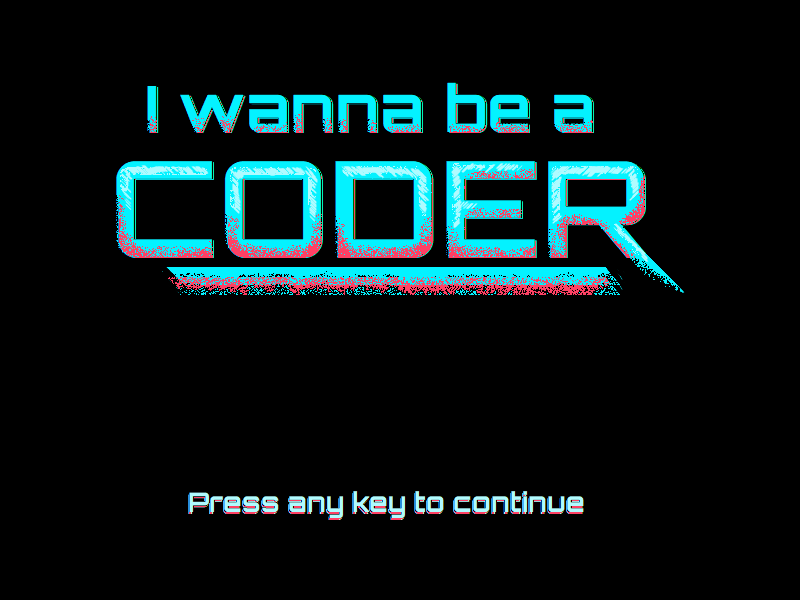
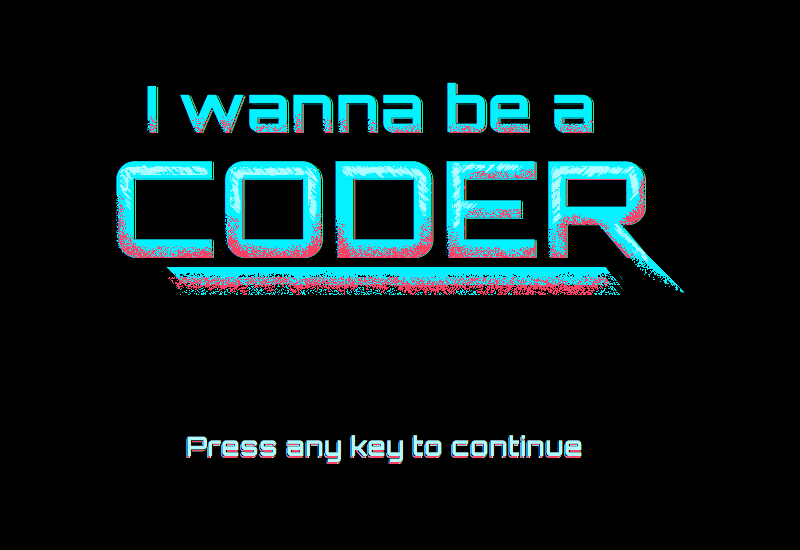
Added animation for main menu, STILL DON'T FORGET ABOUT venv

Changed region(s): [[0.125, 0.1236, 0.8438, 0.5564], [0.2188, 0.7727, 0.75, 0.8655], [0.1875, 0.1236, 0.2188, 0.1545]]

diff --git a/venv/main.py b/venv/main.py
@@ -1,6 +1,7 @@
 import os
 import sys
 import pygame
+import random
 
 
 FPS = 60
@@ -27,17 +28,35 @@ class Button(pygame.sprite.Sprite):
         self.image = Button.images[n]
         self.rect = self.image.get_rect()
         self.mask = pygame.mask.from_surface(self.image)
-        self.rect.topleft = (100, 150 + 120 * n)
-        self.rect.bottomright = (300, 200 + 120 * n)
+        self.rect.topleft = (100, 200 + 120 * n)
 
-    def update(self, pos):
+    def update(self, pos, button=3):
         x, y = pos
         if self.rect.x <= x <= self.rect.x + 200 and self.rect.y <= y <= self.rect.y + 100:
+            if button == 1:
+                pass
             if self.image in Button.images:
                 self.image = Button.c_images[Button.images.index(self.image)]
         else:
             if self.image in Button.c_images:
                 self.image = Button.images[Button.c_images.index(self.image)]
+
+
+
+class Point:
+    def __init__(self):
+        self.h = 600
+        self.w = random.randint(0, 800)
+        self.color = (4, 242, 255)
+
+    def update(self):
+        self.h -= 2
+        if self.h < 500:
+            self.color = (0, 0, 0)
+
+
+def animate(screen, point):
+    pygame.draw.line(screen, point.color, (point.w, point.h), (point.w + 1, point.h), 1)
 
 
 def main():
@@ -47,6 +66,7 @@ def main():
     running = True
     clock = pygame.time.Clock()
     btns = []
+    points = []
     for n in range(3):
         btns.append(Button(n))
     while running:
@@ -60,6 +80,14 @@ def main():
                 for b in btns:
                     b.update(event.pos)
 
+            if event.type == pygame.MOUSEBUTTONDOWN:
+                for b in btns:
+                    b.update(event.pos, event.button)
+
+        points.append(Point())
+        for p in points:
+            animate(screen, p)
+            p.update()
         BTN_SPRITES.draw(screen)
         pygame.display.flip()
         clock.tick(FPS)
